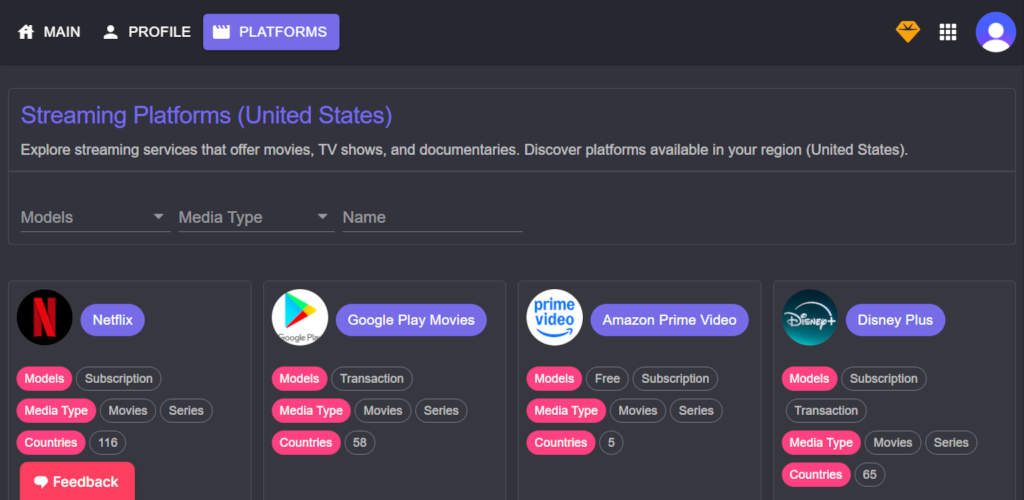
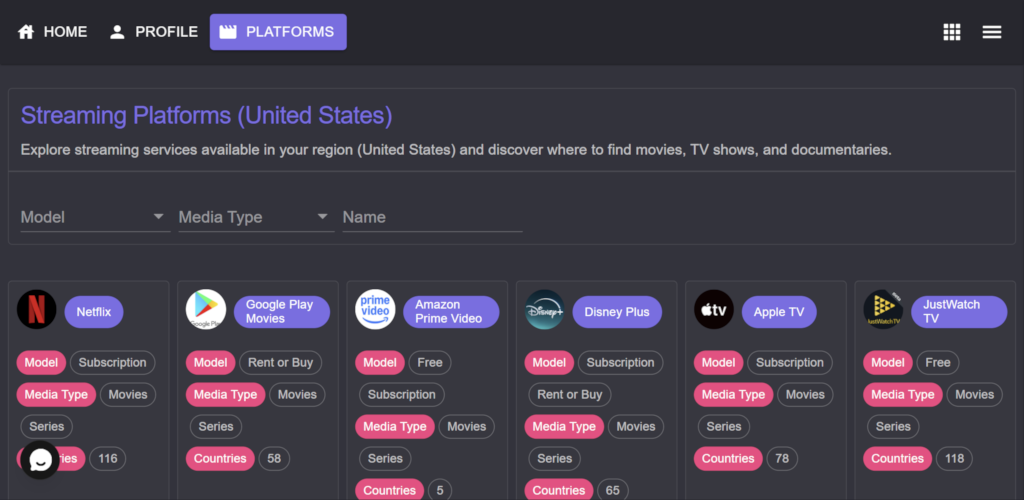
sd metadata updated

diff --git a/SD.WEB/wwwroot/js/app-version.js b/SD.WEB/wwwroot/js/app-version.js
@@ -1,1 +1,1 @@
-window.appVersion = '2026.11.11'
+window.appVersion = '2026.11.12'

diff --git a/SD.WEB/Translations/Product.Designer.cs b/SD.WEB/Translations/Product.Designer.cs
@@ -115,7 +115,7 @@ namespace SD.WEB.Translations {
         }
         
         /// <summary>
-        ///   Looks up a localized string similar to Discover Movies and TV Shows on Streaming Platforms.
+        ///   Looks up a localized string similar to Discover Movies and TV Shows Across Streaming Platforms.
         /// </summary>
         public static string streamingdiscovery {
             get {
@@ -124,7 +124,7 @@ namespace SD.WEB.Translations {
         }
         
         /// <summary>
-        ///   Looks up a localized string similar to Track your streaming services, keep track of what you&apos;ve watched, and discover what to watch next with curated lists, award winners, and critics&apos; picks..
+        ///   Looks up a localized string similar to Discover movies and TV shows, explore streaming availability by region, compare ratings, browse trailers and curated collections, and manage your watchlist..
         /// </summary>
         public static string streamingdiscovery_desc {
             get {
